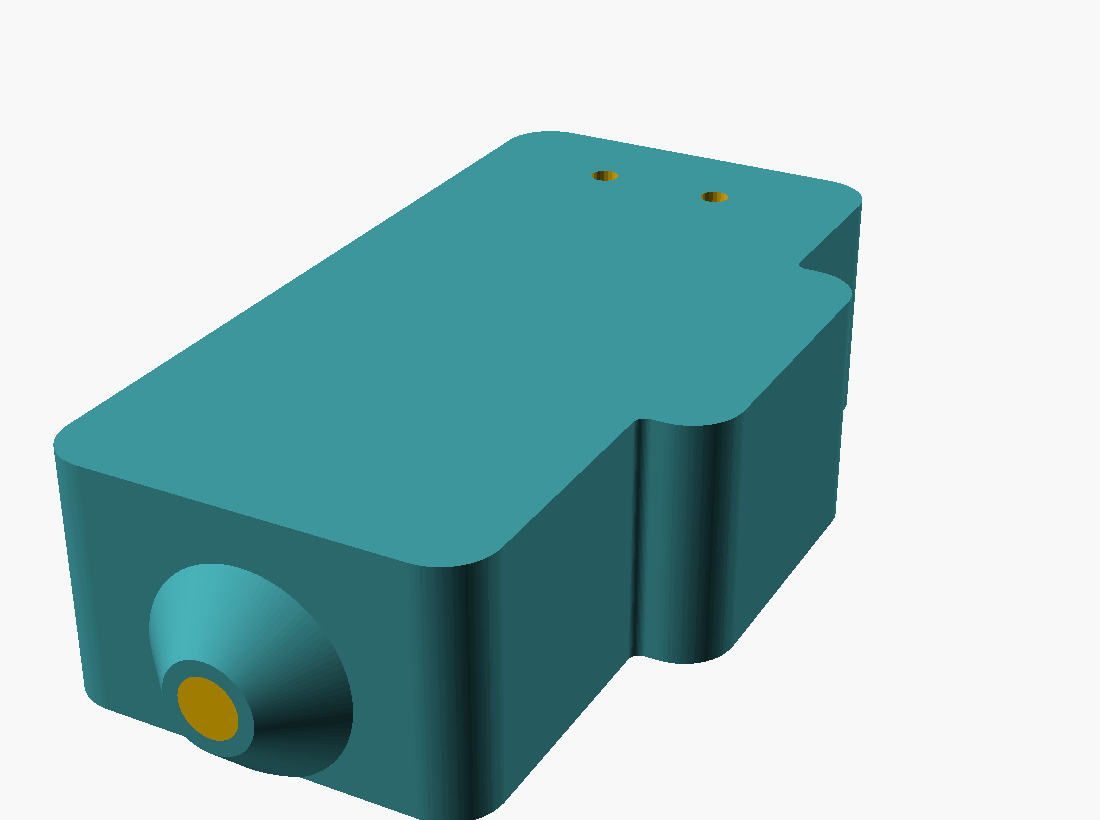
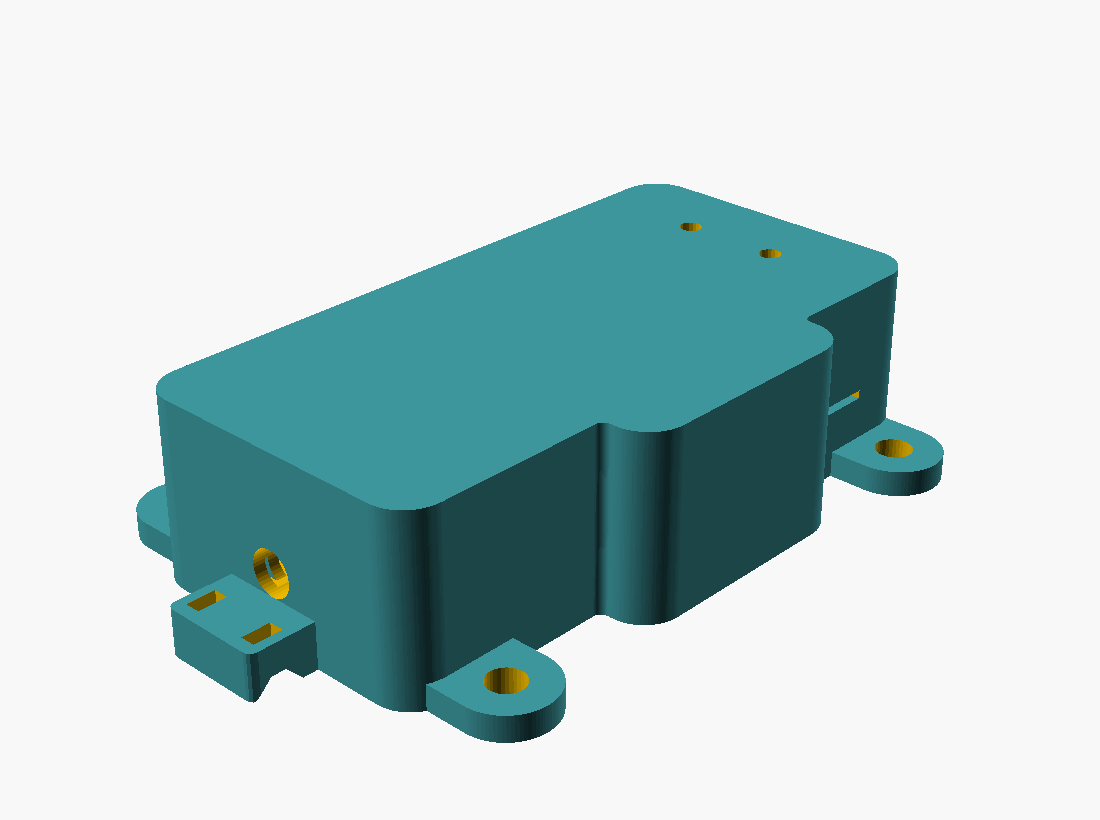
Enclosure: regenerate preview images, add render_images.sh

Changed region(s): [[0.0309, 0.1524, 0.8655, 1.0], [0.68, 0.4573, 0.7109, 0.4878], [0.6182, 0.2744, 0.6491, 0.3049]]

diff --git a/enclosure/README.md b/enclosure/README.md
@@ -38,7 +38,7 @@ and the case comes out with a solid floor and a plain left wall:
 | IR window | off | `-D ir_window=true` | 6 × 6 mm window in the left wall, and 1.5 mm more side clearance, which the MINICAST package needs where it hangs over the board edge. **Set this if U5 is fitted**, window or not. |
 | Button | off | `-D button=true` | way through the floor to SW2: a captive printed plunger, or on `outdoor` a moulded-in membrane that keeps the case sealed. |
 
-The images above show an earlier revision, before the compact ribbon-cable exits.
+The images above are the default build.
 
 ## What the board dictates
 
@@ -113,6 +113,8 @@ twist a spudger or a small screwdriver in one of those. Take the screws out
 first on the outdoor version.
 
 ## Cable relief
+
+![ribbon cable exit and tie saddle](img/cable_exit.png)
 
 Each cable entry is an unobstructed opening through the wall. A saddle projects
 from the base below it, with two slots and a recessed underside channel for a
@@ -192,6 +194,9 @@ openscad -o outdoor_lid.stl -D 'variant="outdoor"' -D 'part="lid"' \
 ```
 
 Needs OpenSCAD (`apt install openscad`) and python3.
+
+`./render_images.sh` regenerates the pictures in `img/` (it uses `xvfb-run` if
+there is no display).
 
 The `Enclosure` job in the Fabrication workflow runs the same checks and builds
 the same STLs on every change under `enclosure/`, and uploads them as the
